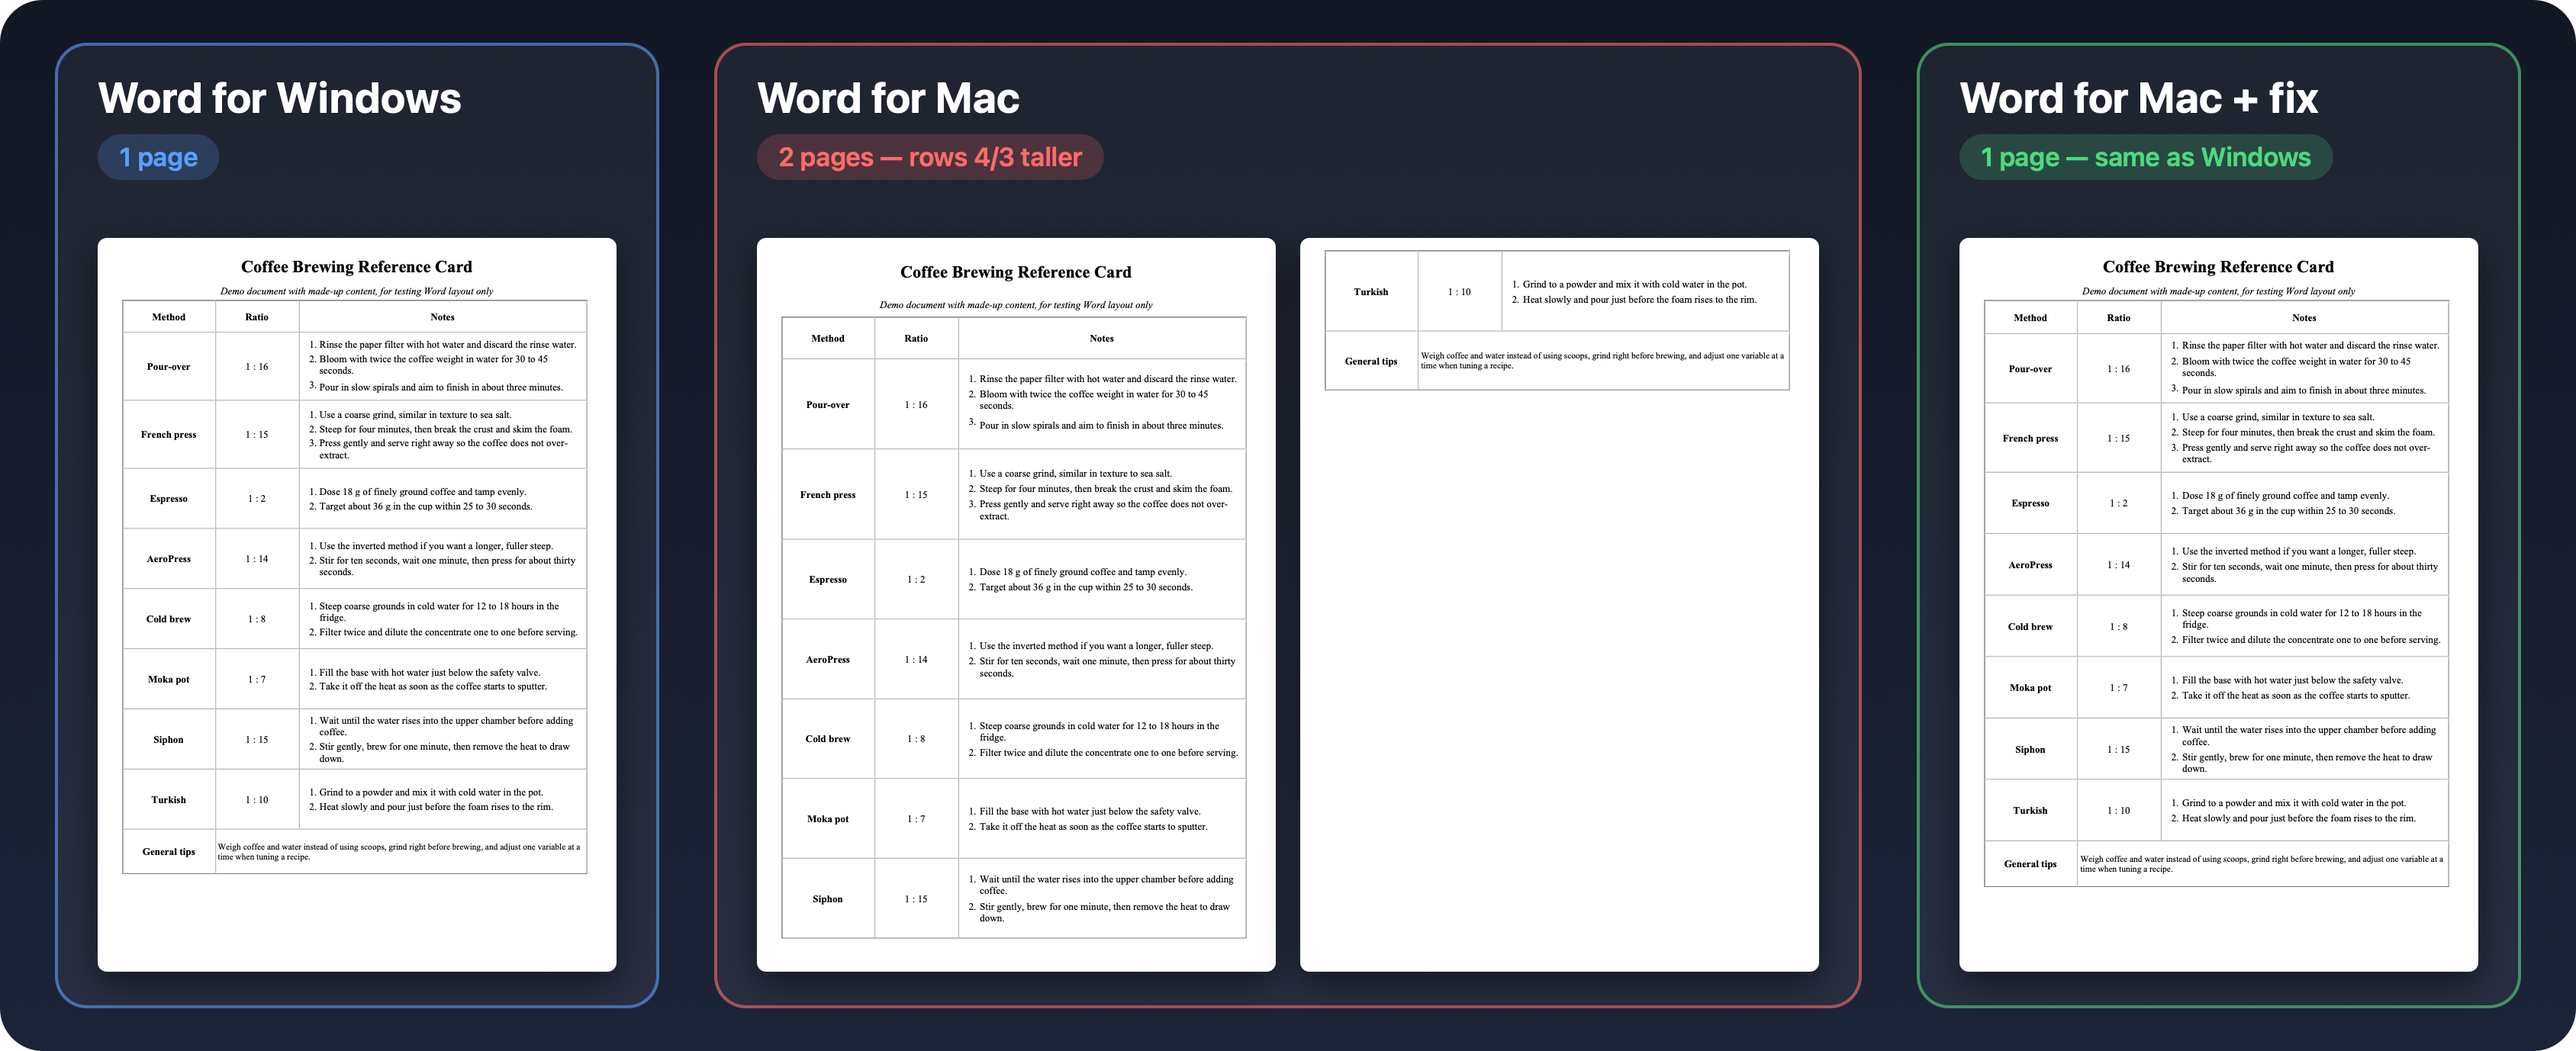
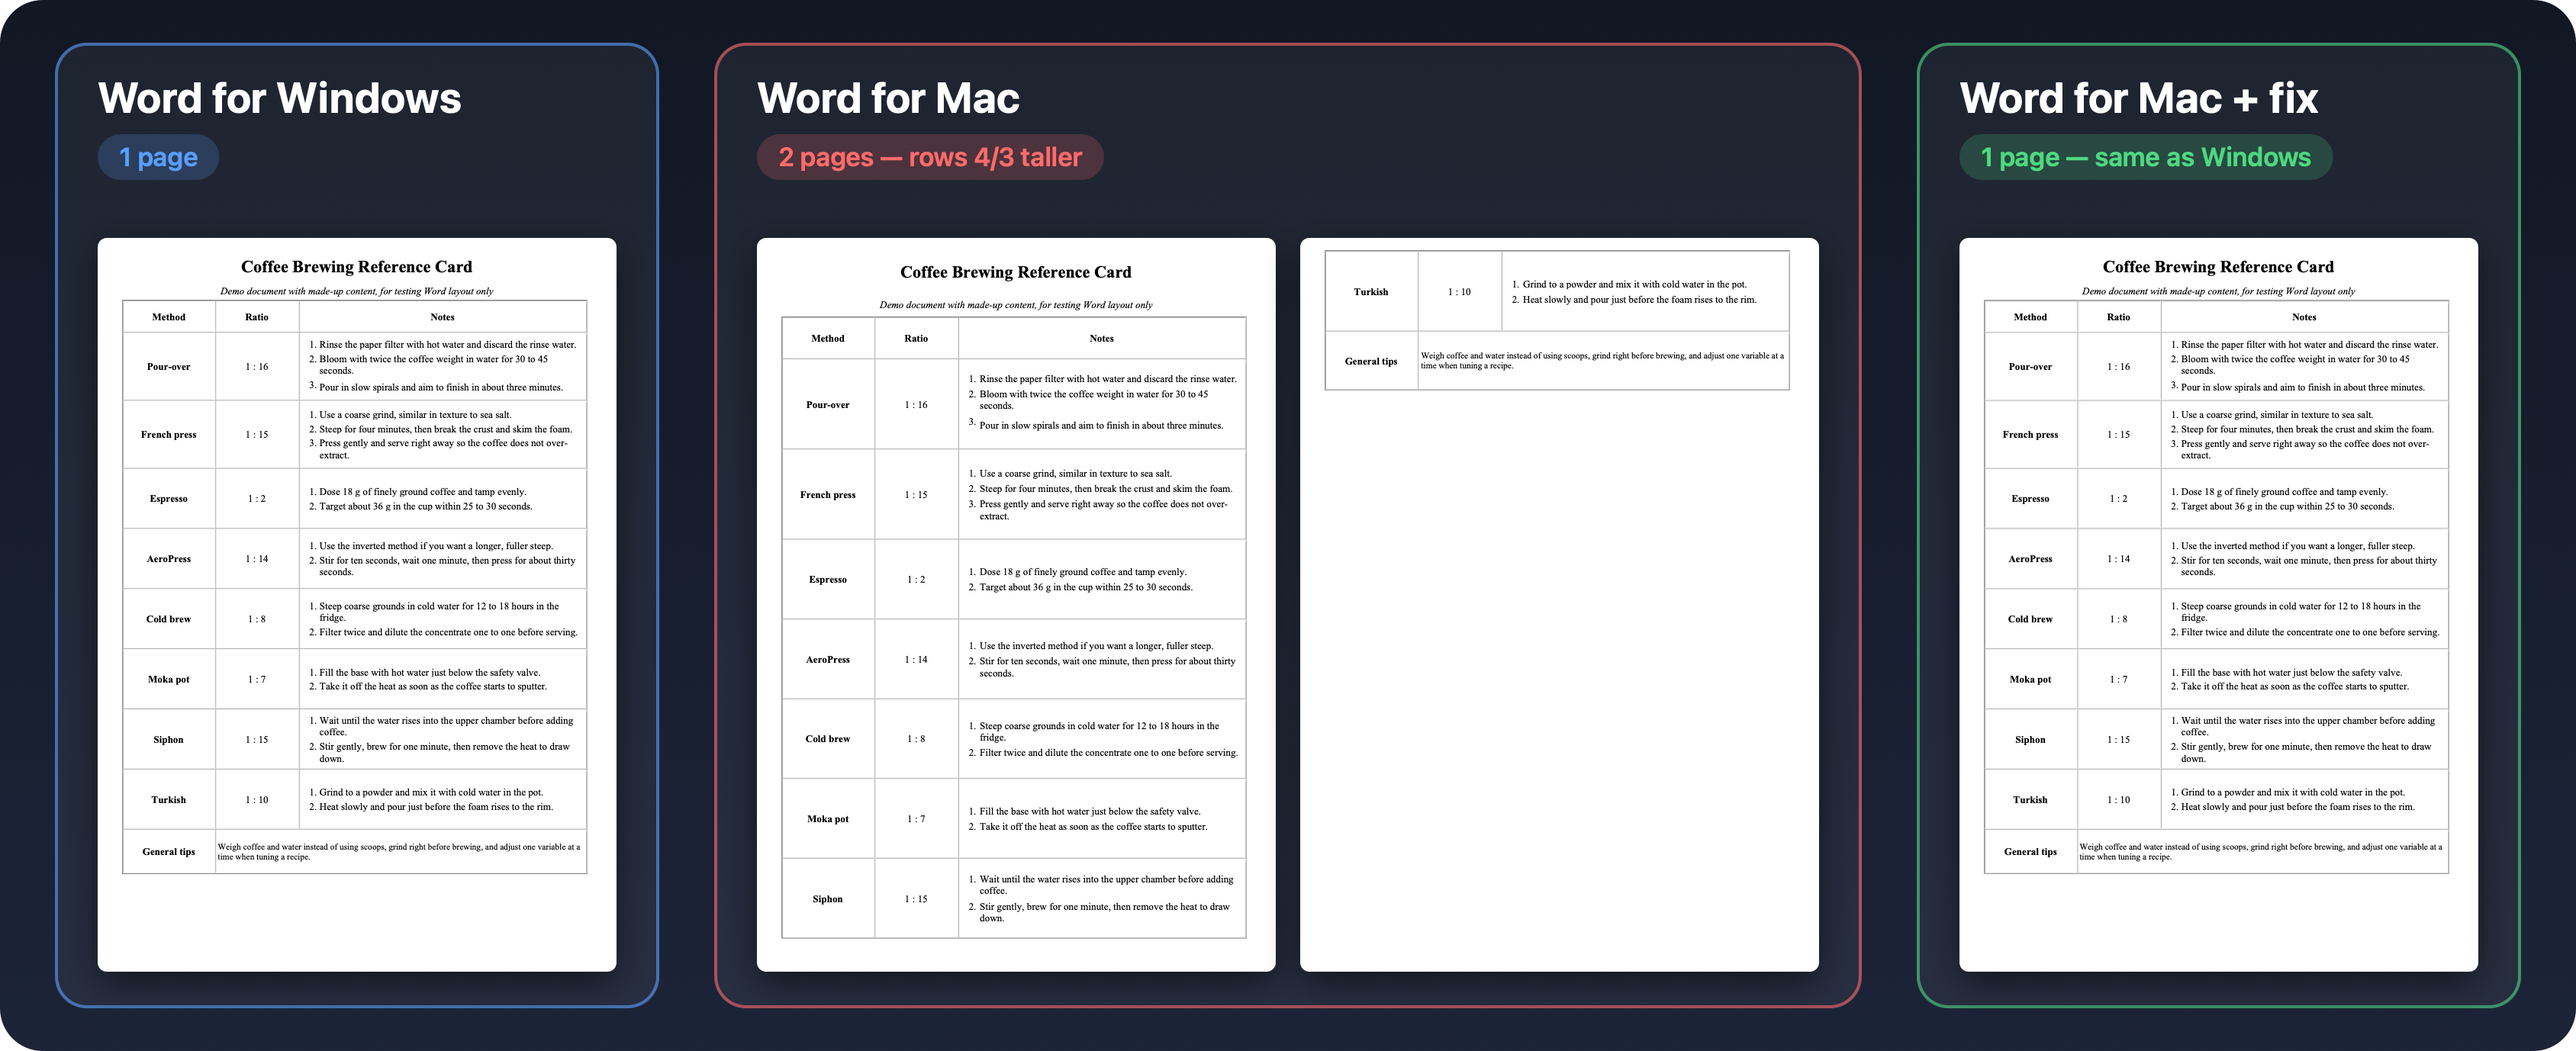
Fix cell padding too

diff --git a/README.md b/README.md
@@ -18,7 +18,7 @@
 
 Someone sends you a `.doc`. On Windows it fits on one page. On your Mac it spills onto a second page, and the fonts look wrong.
 
-**The fonts aren't the only problem.** Many web systems (schools, HR portals, government sites) export "Word" files that are actually HTML pages with a `.doc` extension. **Word for Mac misreads their table row heights, so every row comes out 33% taller than on Windows.** No setting in Word changes that.
+**The fonts aren't the only problem.** Many web systems (schools, HR portals, government sites) export "Word" files that are actually HTML pages with a `.doc` extension. **Word for Mac misreads their table row heights and cell padding, so every row comes out taller than on Windows.** No setting in Word changes that.
 
 This repo fixes it.
 
@@ -44,7 +44,9 @@ cd mac-word-layout-fix
 ./install.sh
 ```
 
-Restart Word. That's it: HTML-based documents are fixed as they open. You can also run the fix by hand from **Scripts menu (📜) → Fix HTML Table Layout**.
+Restart Word. That's it: HTML-based documents are fixed as they open.
+
+Without the add-in, you can run the fix by hand from **Scripts menu (📜) → Fix HTML Table Layout**. That version is slower (it drives Word from outside), and when the add-in is installed it just confirms the document is already fixed.
 
 Try it on [`demo/coffee-guide.doc`](demo/coffee-guide.doc): 2 pages → 1 page.
 
@@ -56,7 +58,7 @@ To remove it: `./uninstall.sh`
   <img src="docs/how-it-works.png" alt="How it works: Windows converts 36px to 27pt, Mac reads 36pt, the fix scales it to 27pt" width="100%">
 </p>
 
-HTML table heights are often written without a unit, meaning CSS pixels. Windows converts them at 96 dpi (× 0.75). Word for Mac uses the number as points, even though it converts font sizes in the same file correctly. The *Web Options → Pixels per inch* setting doesn't affect it.
+HTML tables often set row heights and cell padding without a unit (`<td height="36">`, `cellpadding="3"`), meaning CSS pixels. Windows converts them at 96 dpi (× 0.75). Word for Mac uses the number as points, even though it converts font sizes in the same file correctly. The *Web Options → Pixels per inch* setting doesn't affect it.
 
 Measured on the same file with Word 16.113 for Mac and Word 16.0 (build 20326) for Windows:
 
@@ -65,9 +67,11 @@ Measured on the same file with Word 16.113 for Mac and Word 16.0 (build 20326) f
 | `height="36"` | 27 pt | 36 pt ❌ | 27 pt ✅ |
 | `height="72"` | 54 pt | 72 pt ❌ | 54 pt ✅ |
 | `height="114"` | 85.5 pt | 114 pt ❌ | 85.5 pt ✅ |
+| `cellpadding="3"` | 2.25 pt | 3 pt ❌ | 2.25 pt ✅ |
+| `cellpadding="2"` | 1.5 pt | 2 pt ❌ | 1.5 pt ✅ |
 | font `15px` | 11.5 pt | 11.5 pt | 11.5 pt |
 
-The fix detects documents that Word opened as HTML, walks every table (including nested ones), and scales row heights by 0.75. It only changes the document in memory.
+The fix detects documents that Word opened as HTML, walks every table (including nested ones), and scales row heights and cell padding by 0.75. It runs inside Word and takes well under a second. It only changes the document in memory.
 
 ## 🤖 Auto-fix add-in
 
@@ -147,7 +151,7 @@ Open it in a text editor. If it starts with `<html`, it's HTML-based. The Script
 
 <br>
 
-With matching fonts and this fix, page breaks match in our tests. Word can still reflow text very slightly between platforms ([Word MVP notes](https://wordmvp.com/Mac/Differences.html)), so for documents that must be pixel-perfect, export a PDF from Windows.
+With matching fonts and this fix, page breaks match Windows in our tests, including a real two-page form where Mac used to push extra lines onto page 2. Word can still reflow text very slightly between platforms ([Word MVP notes](https://wordmvp.com/Mac/Differences.html)), so for documents that must be pixel-perfect, export a PDF from Windows.
 </details>
 
 ---
